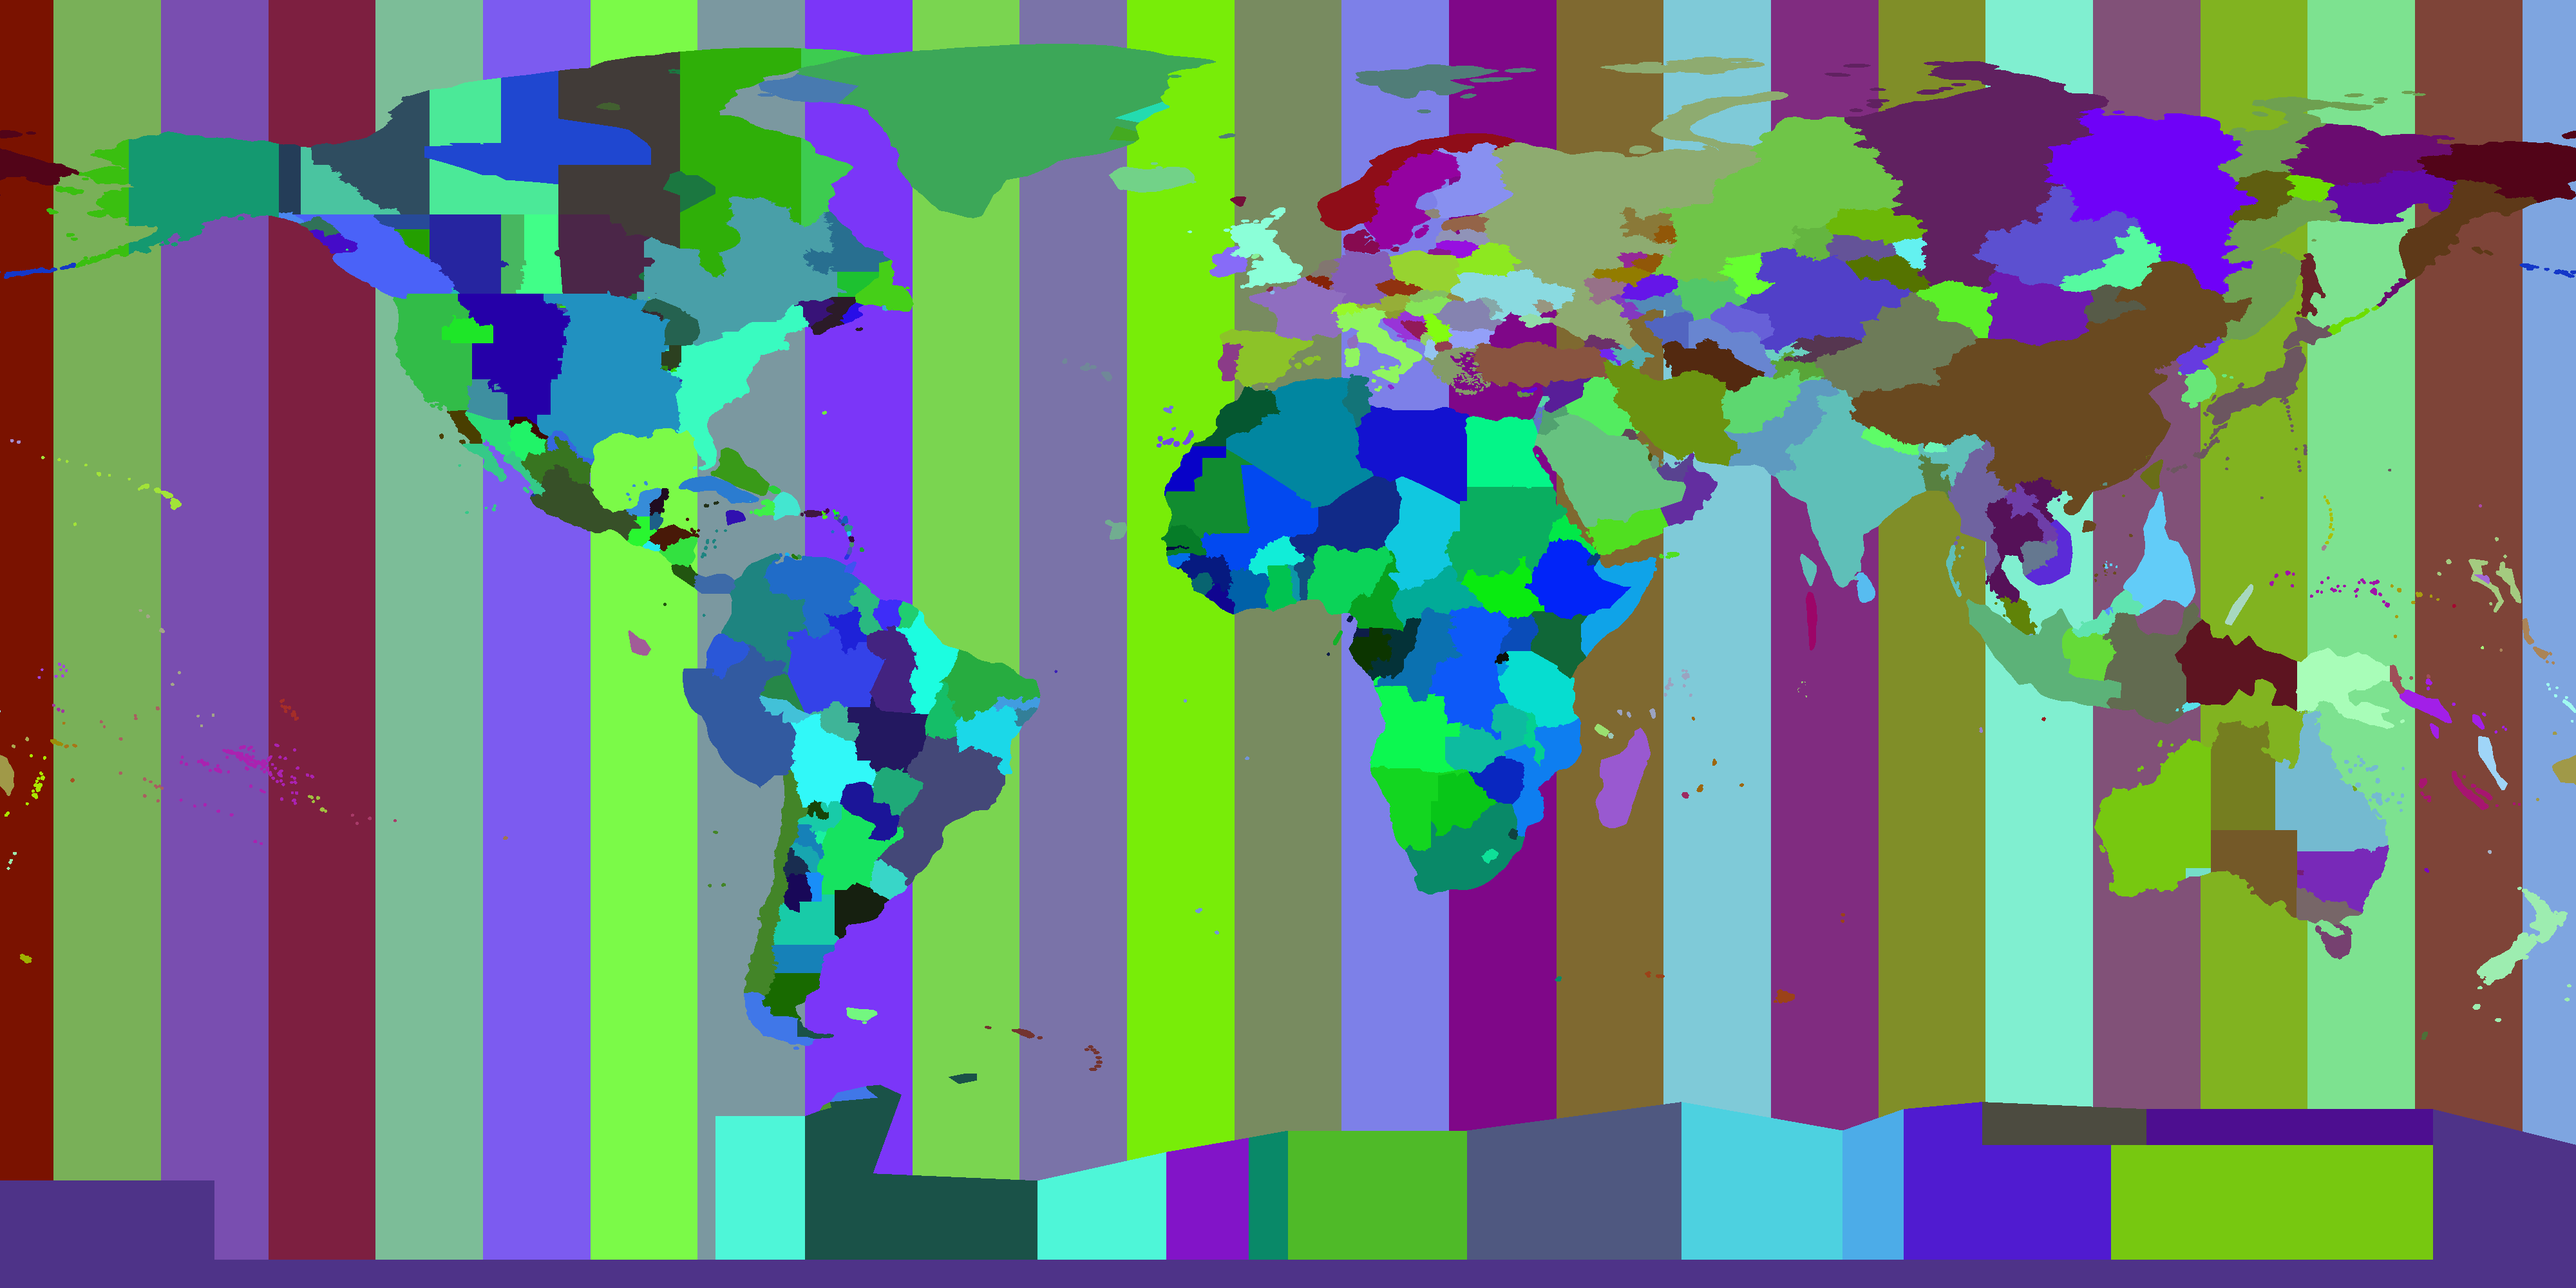
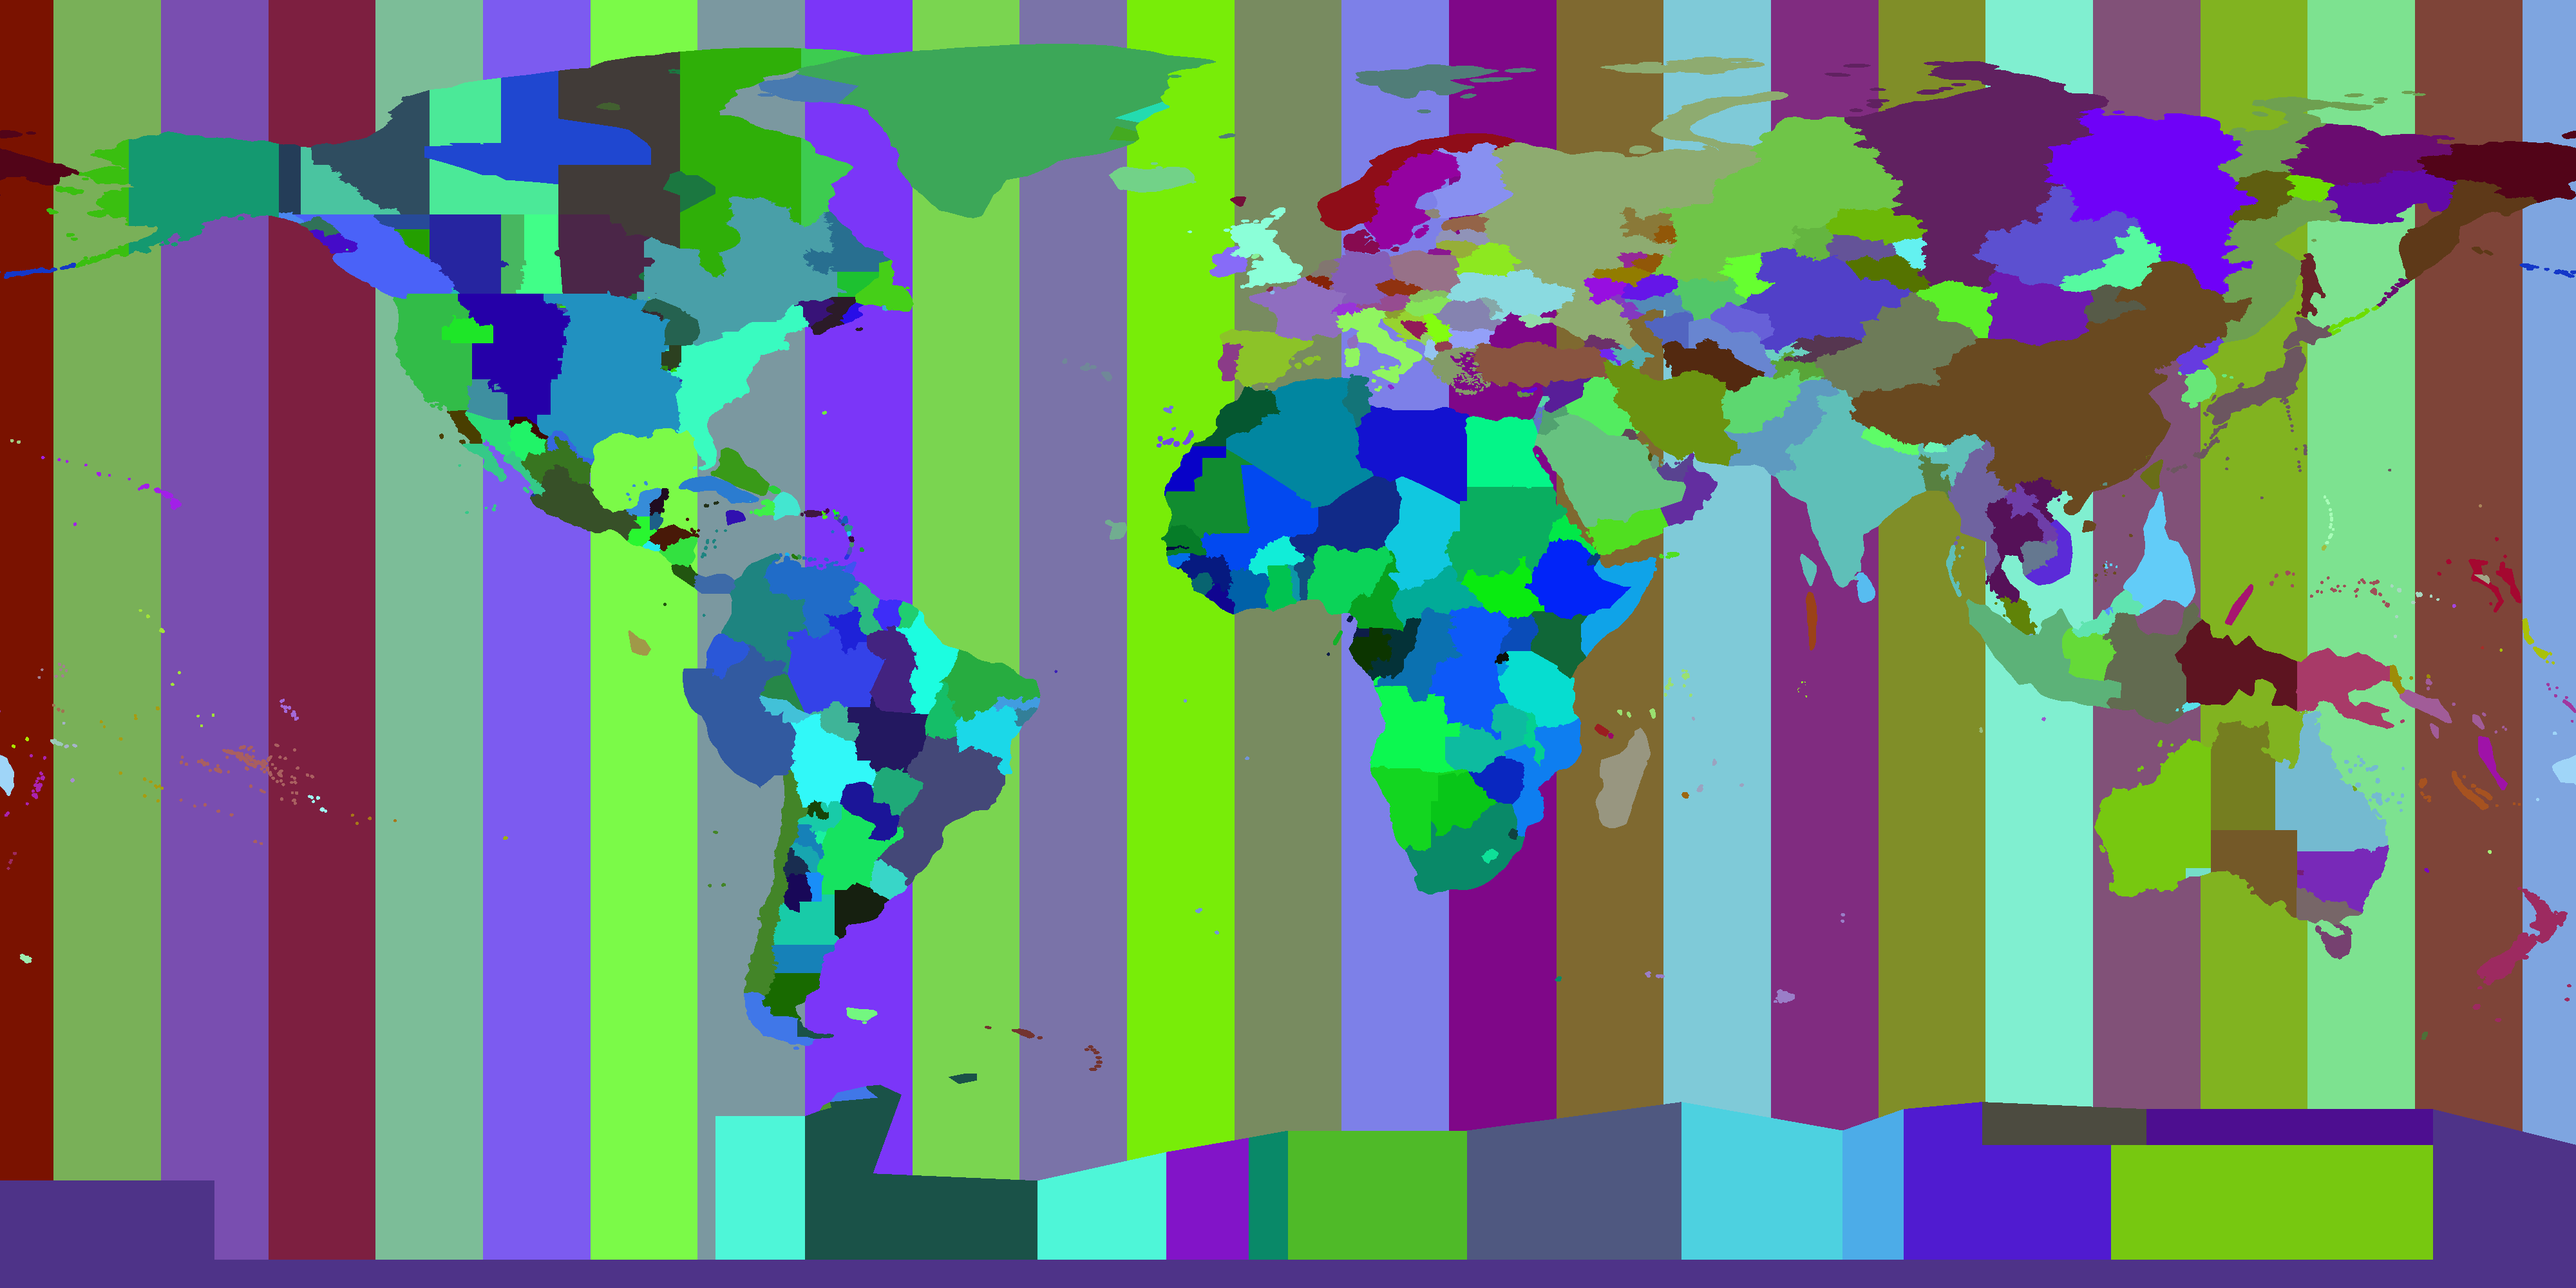
Updated the timezone data to timezone-boundary-builder's release 2022d

diff --git a/CHANGELOG.rst b/CHANGELOG.rst
@@ -66,8 +66,8 @@ Changed
   Marble from the beginning, the required Marble version is now omitted again, until >= 21.12.0 hits
   LTS distros.
 
-* Updated the timezones data files to 2022b (cf. Timezone Boundary Builder's `Release Announcement
-  <https://github.com/evansiroky/timezone-boundary-builder/releases/tag/2022b>`_).
+* Updated the timezones data files to 2022d (cf. Timezone Boundary Builder's `Release Announcement
+  <https://github.com/evansiroky/timezone-boundary-builder/releases/tag/2022d>`_).
 
 Deprecated
 ==========
